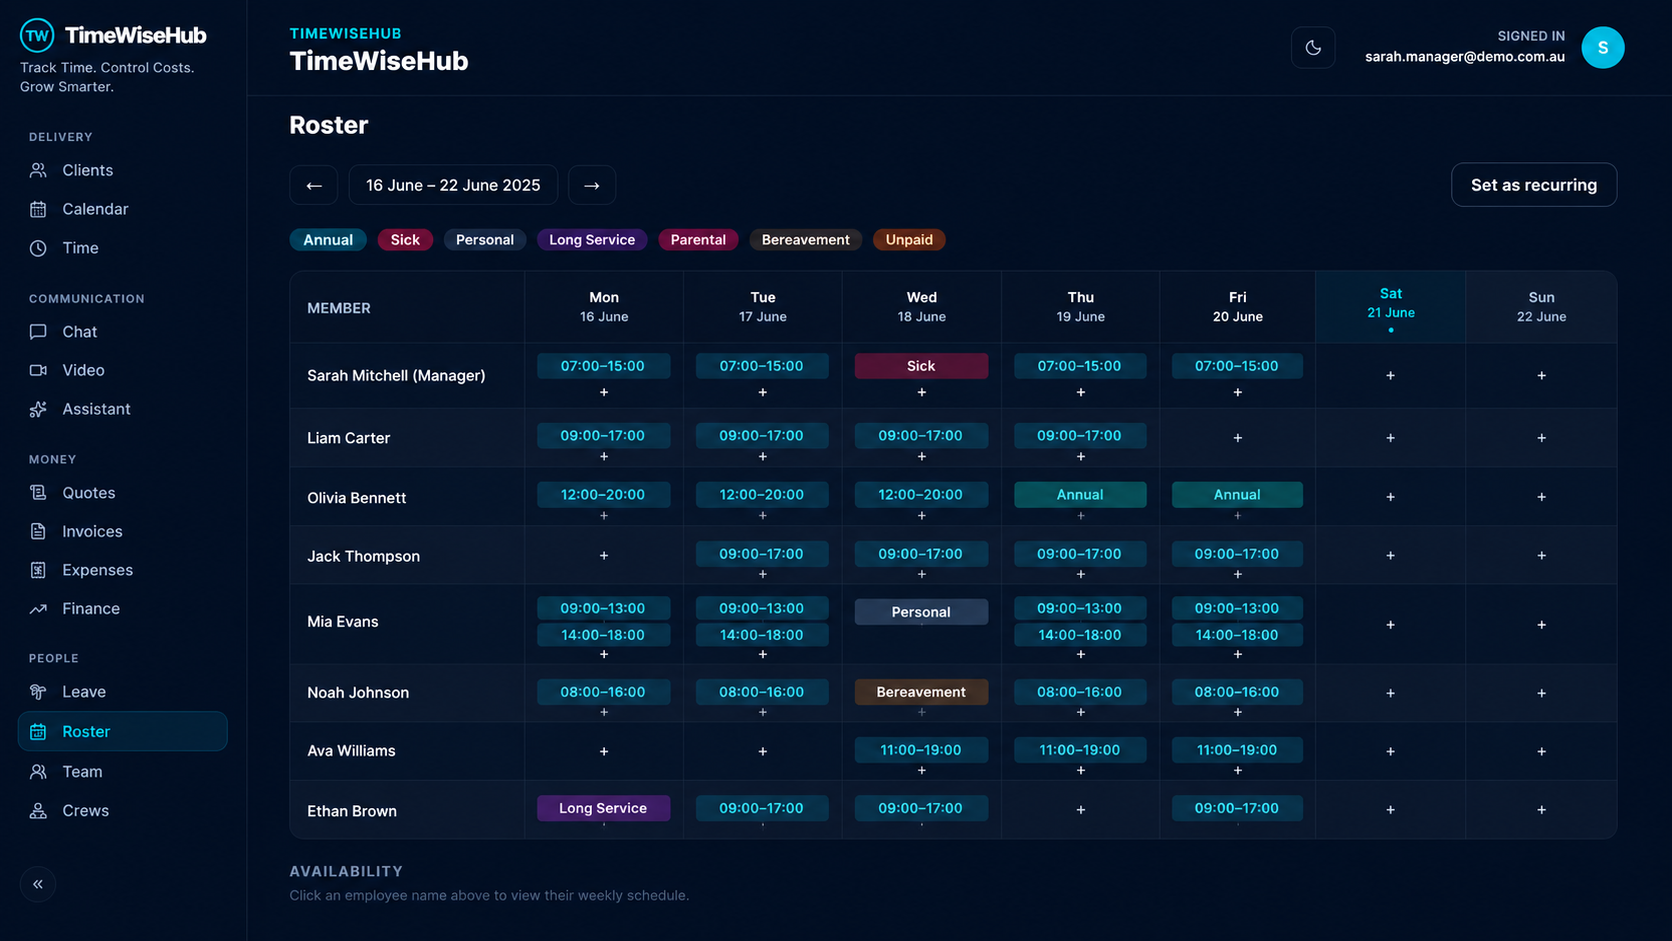
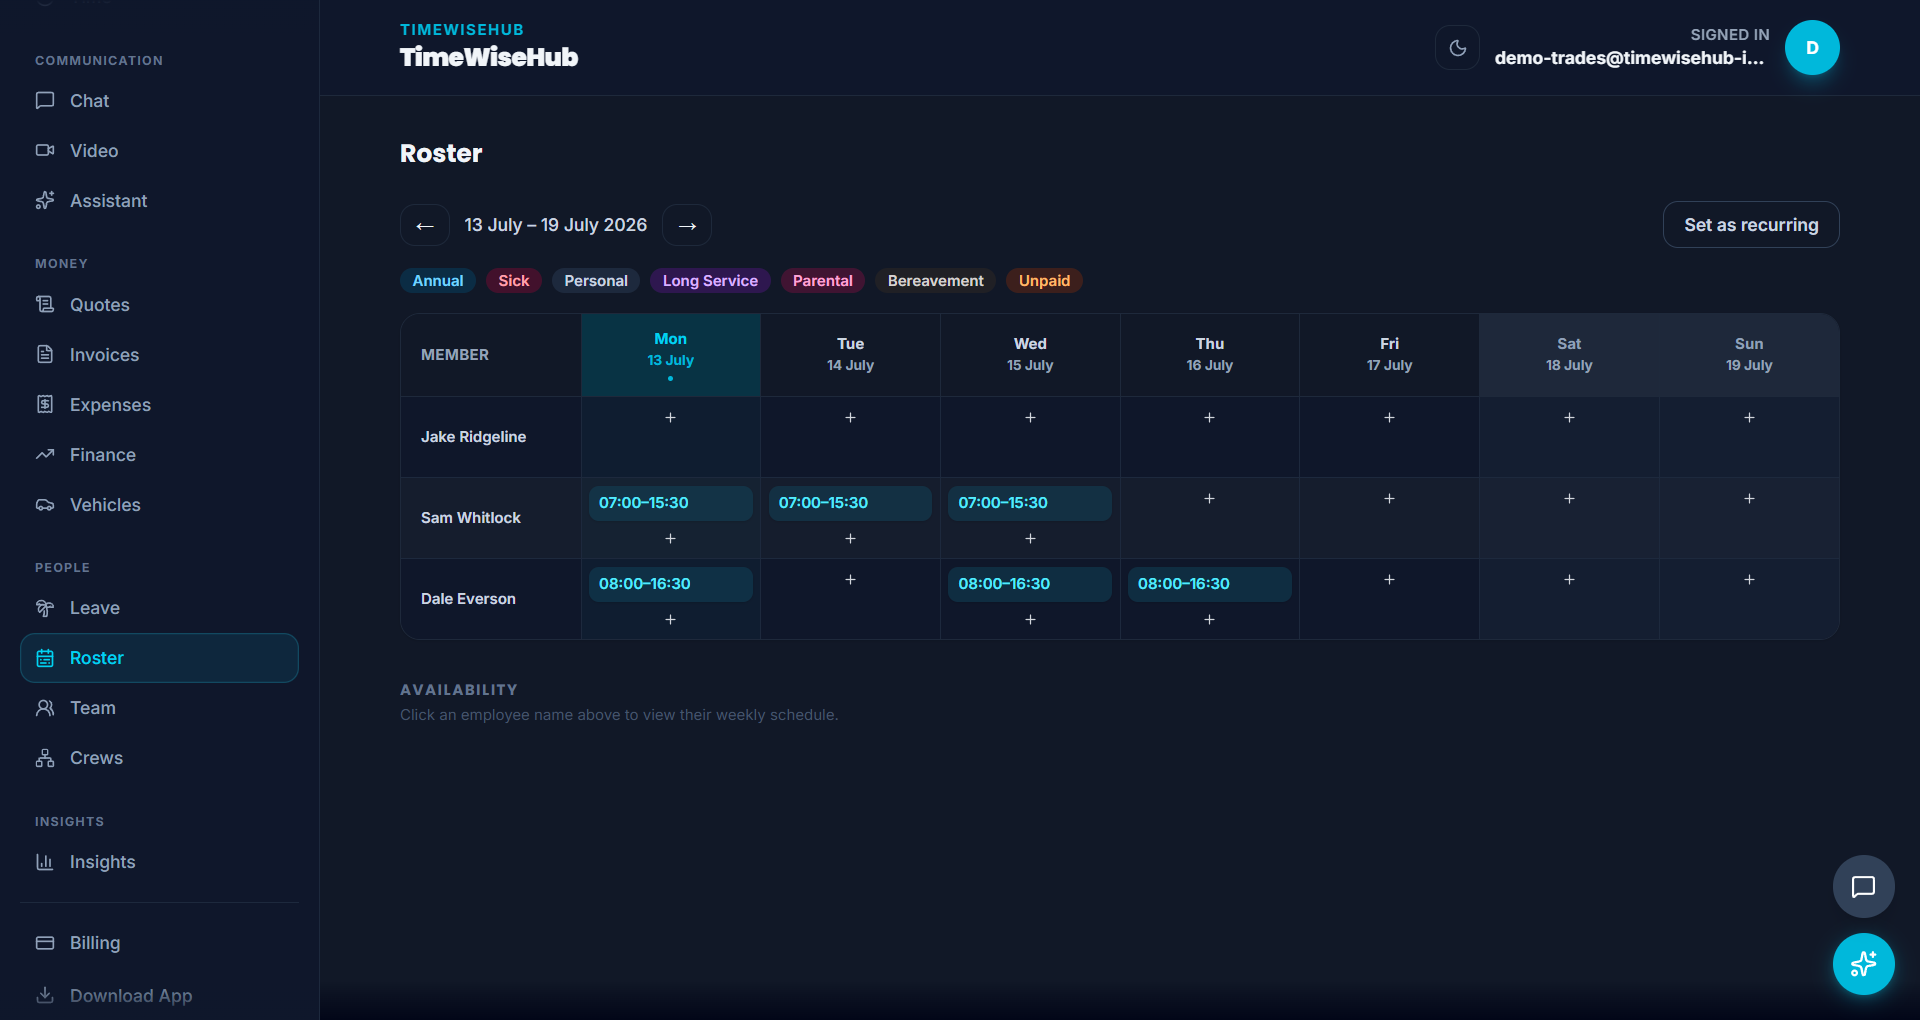
feat: refresh landing page carousel with real screenshots
Genuine screenshots taken by the user (Win+Shift+S from the seeded
trades demo account), taskbar cropped off. Replaces Dashboard,
Clients, Invoices, Roster, Team, and Insights images, and adds a new
Vehicles entry backed by a real capture. Verified logo/nav/data match
the actual app before installing (after an earlier episode this
session where a broken screenshot tool fabricated images instead of
capturing real ones).

diff --git a/src/components/landing/FeatureCarousel.tsx b/src/components/landing/FeatureCarousel.tsx
@@ -4,6 +4,7 @@ import insights from '../../../promo/pc insights.png'
 import invoices from '../../../promo/pc invoices.png'
 import rostering from '../../../promo/pc rostering.png'
 import client from '../../../promo/pc client.png'
+import vehicles from '../../../promo/pc vehicles.png'
 import assistant from '../../../promo/pc ai.png'
 import chat from '../../../promo/pc team chat.png'
 import hrProfiles from '../../../promo/pc hr profiles.png'
@@ -21,6 +22,7 @@ export const SHOWCASE_IMAGES: ShowcaseItem[] = [
   { label: 'Invoices', image: invoices, alt: 'TimeWiseHub invoices screen' },
   { label: 'Roster', image: rostering, alt: 'TimeWiseHub rostering screen' },
   { label: 'Clients', image: client, alt: 'TimeWiseHub client management screen' },
+  { label: 'Vehicles', image: vehicles, alt: 'TimeWiseHub vehicle tracking screen' },
   { label: 'Assistant', image: assistant, alt: 'TimeWiseHub AI assistant screen' },
   { label: 'Chat', image: chat, alt: 'TimeWiseHub team chat screen' },
   { label: 'Team', image: hrProfiles, alt: 'TimeWiseHub HR profiles screen' },
